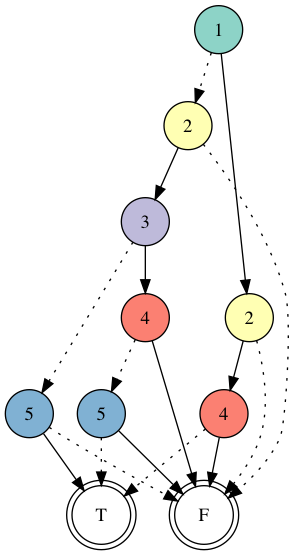
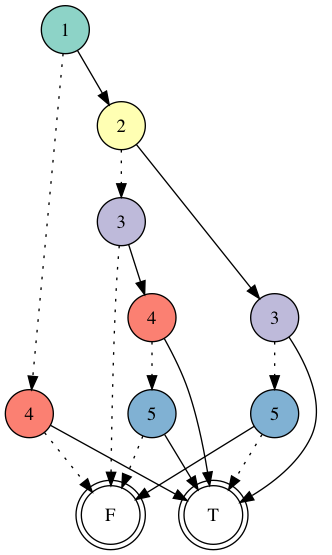
added random bdd function
non recursive random bdd creation#2

diff --git a/bdd.py b/bdd.py
@@ -59,6 +59,10 @@ class Terminal(Node):
     def __str__(self):
         return "TRUE" if self.uid else "FALSE"
 
+    @staticmethod
+    def random_terminal(truth=0.5):
+        return Terminal(1) if np.random.binomial(1,truth) else Terminal(0)
+
 
 class Bdd:
 
@@ -72,8 +76,11 @@ class Bdd:
     def get_var_index(self,var):
         return self.var_order.index(var)
 
-    def node(self, var,low,high):
-        node = Node(var,low,high)
+    def node(self, var,low,high, node=None):
+        if node:
+            node = Node(node.var, node.low, node.high)
+        else:
+            node = Node(var,low,high)
         if node.low.uid == node.high.uid:
             return self.node_pool[low.uid]
         else:
@@ -90,6 +97,24 @@ class Bdd:
         node.false_paths, node.true_paths = self.count_paths(node)
         return node
 
+    def delete_orphans(self):
+        while True:
+            children = []
+            parents = self.get_nodes()
+            for node in parents:
+                children += [node.low.uid, node.high.uid]
+            orphans = [x for x in parents if x.uid not in children]
+            orphans.remove(self.get_root_node())
+            if not orphans:
+                break
+            [self.delete_node(x) for x in orphans]
+
+    def delete_node(self, node):
+        if node.uid not in self.node_pool:
+            raise Exception("delete_node: node not found")
+        del(self.node_pool[node.uid])
+
+
     def get_node(self, node):
         for k,v in self.node_pool.items():
             if v == node:
@@ -102,11 +127,12 @@ class Bdd:
         max_uid = max(self.node_pool.keys())
         return self.node_pool[max_uid]
 
-    def get_nodes(self, key=None, terminal=False, reverse=False):
+    def get_nodes(self, key=None, terminal=False, reverse=False,no_root=False):
         output = self.node_pool.values()
         if not terminal:
             output= [x for x in output if x and not isinstance(x, Terminal)]
-
+        if no_root:
+            output.remove(self.get_root_node())
         return sorted(output, key = key,reverse=reverse) if key else output
 
 
@@ -179,8 +205,7 @@ class Bdd:
 
 
         g.draw(file, g.layout(prog='dot'))
-        positions = {x.uid : g.get_node(x.uid).attr['pos'] for x in self.get_nodes(terminal=True)}
-        print(positions)
+
 
     @staticmethod
     def apply(f, bdd1, bdd2):
@@ -260,27 +285,15 @@ class Bdd:
     def create_bdd(depth=10, number_of_bdd=1):
         bdd = Bdd()
         bdd.var_order = [x + 1 for x in range(depth)] + ["TERMINAL"]
-        info=[]
-        info.append(list(np.random.randint(depth,size=number_of_bdd*2)))
-        for level in range(depth-1):
-            info.append([random.randint(0,depth-1) for _ in range(len(set(info[level])) * 2)])
-        info.append([random.randint(0, 1) for _ in range(len(set(info[depth-1])) * 2)])
-        print(info)
-        for level in range(depth - 1):
-            nodes = [Node(level, None, None) for _ in set(info[level])]
+        number_of_nodes = [2**y for y in range(depth)]
         for level in range(depth)[::-1]:
-            tmp=[]
-            counter = -2
-            for node in info[level]:
-                if node in tmp:
-                    continue
-                tmp.append(node)
-                counter += 2
-                if level == depth -1:
-                    bdd.node(level+1, bdd.node_pool[info[level+1][counter]], bdd.node_pool[info[level+1][counter+1]])
-                    print(Node(level+1, bdd.node_pool[info[level+1][counter]], bdd.node_pool[info[level+1][counter+1]]))
-                    continue
-
+            if level == depth-1:
+                nodes = [bdd.node(level+2, Terminal.random_terminal(), Terminal.random_terminal()) for _ in range(depth)]
+                continue
+            nodes = [bdd.node(level+2, nodes[random.randint(0,depth-1)], nodes[random.randint(0,depth-1)]) for _ in range(depth)]
+        bdd.node(1,nodes[random.randint(0,depth-1)], nodes[random.randint(0,depth-1)])
+        bdd.delete_orphans()
+        return bdd
 
 if __name__ == '__main__':
     bdd = Bdd()
@@ -292,6 +305,8 @@ if __name__ == '__main__':
     bdd3 = Bdd.apply(IMP, bdd, bdd2)
     bdd3.draw("bdd3.png")
     start = time.time()
-    Bdd.create_bdd(depth=1000)
+    bdd = Bdd.create_bdd(depth=40)
+    bdd.draw()
     print(time.time()-start)
+    bdd.draw('bdd2.png')
 
